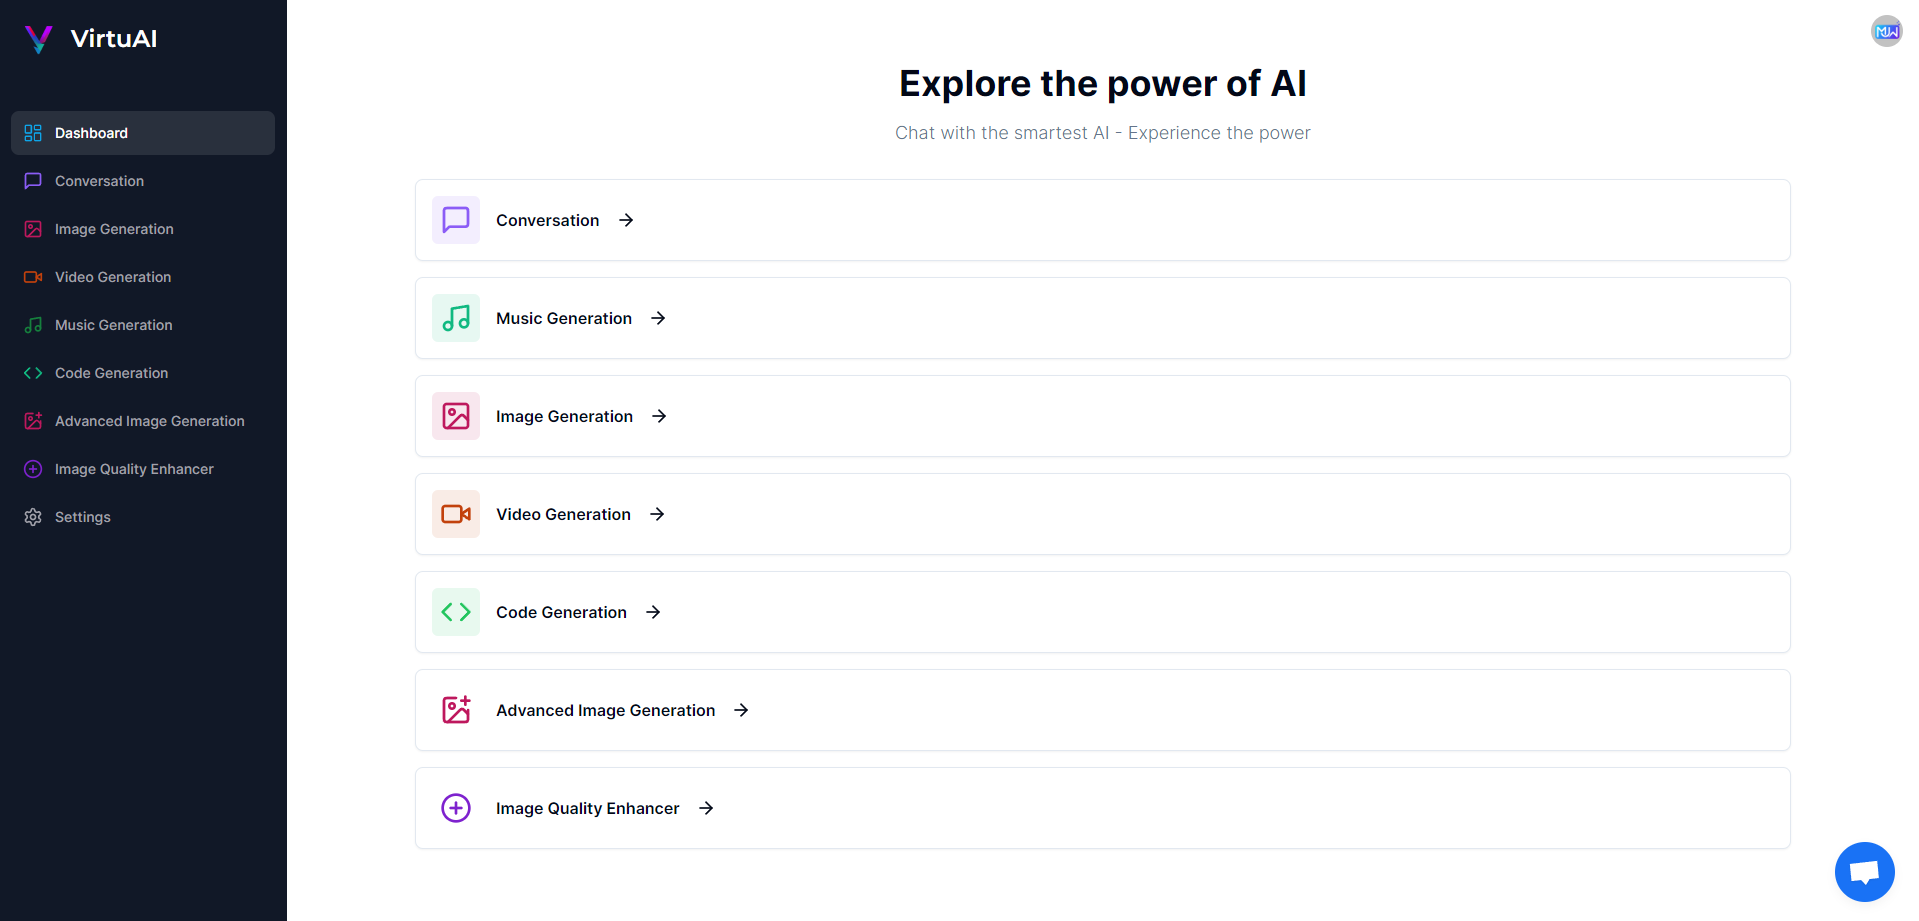
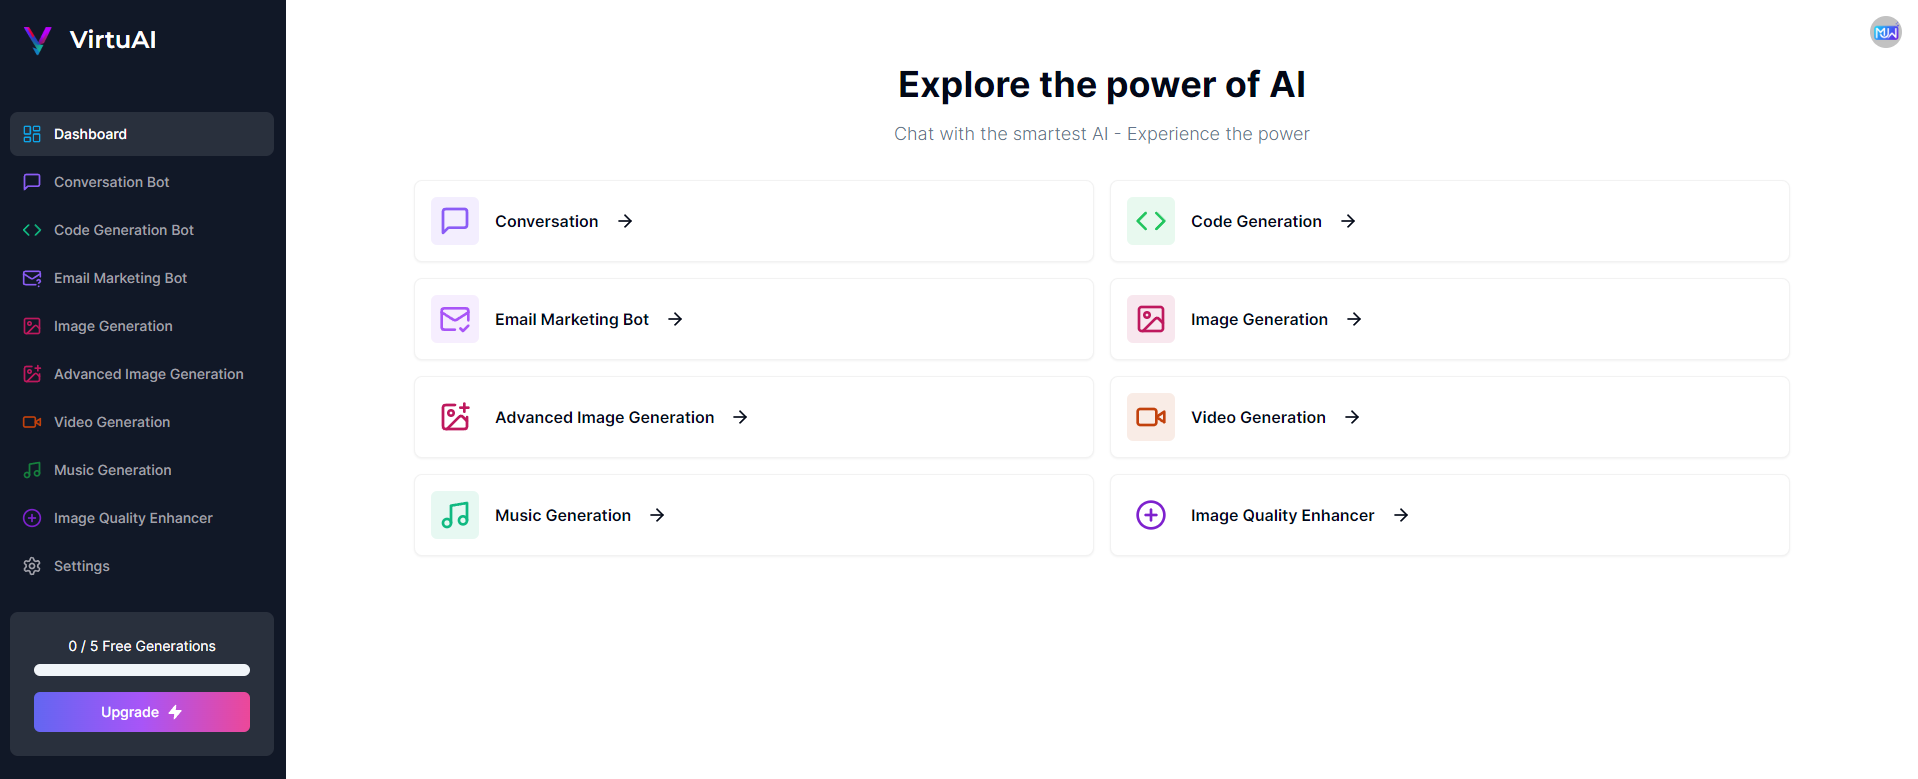
fixed navbar

diff --git a/components/landing-navbar.tsx b/components/landing-navbar.tsx
@@ -10,40 +10,16 @@ export const LandingNavbar = () => {
   const [isMenuOpen, setIsMenuOpen] = useState(false);
 
   return (
-    <nav className="p-4 bg-transparent flex items-center justify-between">
-      <Link href="/">
-        <div className="flex items-center cursor-pointer">
-          <div className="relative h-8 w-8 mr-4">
-            <Image fill alt="Logo" src="/virtuAiLogo.png" />
-          </div>
-          <h1 className="text-2xl font-bold text-white">VirtuAi</h1>
-        </div>
-      </Link>
-
-      <div className="md:hidden">
-        <button onClick={() => setIsMenuOpen((prev) => !prev)} className="text-white">
-          {/* Burger Icon */}
-          <div className="w-6 h-6 flex flex-col justify-between">
-            <div className="w-full h-0.5 bg-white"></div>
-            <div className="w-full h-0.5 bg-white"></div>
-            <div className="w-full h-0.5 bg-white"></div>
-          </div>
-        </button>
+    <nav className="flex items-center justify-between p-4">
+      <div className="flex items-center p-1">
+        <Image src="/virtuAiLogo.png" alt="Logo" width={40} height={40} />
+        <h1 className="text-2xl font-bold text-white">VirtuAi</h1>
       </div>
 
-      <div className={`fixed top-0 left-0 w-full h-full bg-gray-900 bg-opacity-75 z-50 transform transition-transform duration-300 ${isMenuOpen ? 'translate-x-0' : '-translate-x-full'} md:translate-x-0 md:static md:bg-transparent md:flex md:items-center md:justify-end`}>
-        <button onClick={() => setIsMenuOpen(false)} className="absolute top-4 right-4 text-white md:hidden">
-          {/* Close Icon */}
-          <div className="w-6 h-6 relative">
-            <div className="absolute inset-0 bg-white transform rotate-45"></div>
-            <div className="absolute inset-0 bg-white transform -rotate-45"></div>
-          </div>
-        </button>
-
-        <div className="flex items-center gap-x-2 mt-16 md:mt-0">
-        <Link href="/#about" passHref>
+      <div className="hidden md:flex items-center space-x-4">
+      <Link href="/#about" passHref>
                     <Button variant="ghost" className="text-white hover:text-black transition duration-300">
-                        About
+                    Preview
                     </Button>
                 </Link>
                 <Link href="/#price" passHref>
@@ -56,9 +32,40 @@ export const LandingNavbar = () => {
                         Testimonials
                     </Button>
                 </Link>
-             
-               
-          {/* ... rest of your links here */}
+                <Link href={isSignedIn ? '/dashboard' : '/sign-up'}>
+            <Button variant="premium" className="rounded-full transition duration-300">
+              Get Started
+            </Button>
+          </Link>
+        
+      </div>
+
+      <button className="md:hidden z-10" onClick={() => setIsMenuOpen(!isMenuOpen)}>
+        <div className="space-y-1">
+          <span className="block w-8 h-0.5 bg-gray-700"></span>
+          <span className="block w-8 h-0.5 bg-gray-700"></span>
+          <span className="block w-8 h-0.5 bg-gray-700"></span>
+        </div>
+      </button>
+
+      {isMenuOpen && (
+        <div className="absolute top-1 left-0 w-full md:hidden">
+        <div className="flex flex-col items-center justify-center p-4 bg-white bg-opacity-80">
+          <Link href="/#about" passHref>
+            <Button variant="ghost" className="text-grey hover:text-black transition duration-300 mb-2">
+              Preview
+            </Button>
+          </Link>
+          <Link href="/#price" passHref>
+            <Button variant="ghost" className="text-grey hover:text-black transition duration-300 mb-2">
+              Price
+            </Button>
+          </Link>
+          <Link href="/#testimonials" passHref>
+            <Button variant="ghost" className="text-grey hover:text-black transition duration-300 mb-2">
+              Testimonials
+            </Button>
+          </Link>
           <Link href={isSignedIn ? '/dashboard' : '/sign-up'}>
             <Button variant="premium" className="rounded-full transition duration-300">
               Get Started
@@ -66,6 +73,8 @@ export const LandingNavbar = () => {
           </Link>
         </div>
       </div>
+      )}
     </nav>
   );
+  
 };

diff --git a/components/landing-content.tsx b/components/landing-content.tsx
@@ -146,8 +146,8 @@ export const LandingContent = () => {
                         <Image 
                         src='/Dashboard.png'
                         alt='Product Preview'
-                        width={1363}
-                        height={866} 
+                        width={1700}
+                        height={950} 
                         quality={100}
                         className="rounded-md p-2 sm:p-8 md:p-8 shadow-2xl ring-1 ring-gray-900/10"
                         />

diff --git a/app/(dashboard)/(routes)/dashboard/page.tsx b/app/(dashboard)/(routes)/dashboard/page.tsx
@@ -102,7 +102,7 @@ return (
             {tools.map((tool, index) => (
                 index % 2 === 0 && (
                     // eslint-disable-next-line react/jsx-key
-                    <div className="flex space-x-4">
+                    <div className="flex flex-col md:flex-row space-y-4 md:space-y-0 md:space-x-4">
                         <Card
                             onClick={() => router.push(tool.href)}
                             key={tool.href}

diff --git a/components/sidebar.tsx b/components/sidebar.tsx
@@ -140,8 +140,7 @@ const Sidebar = ({
 
     return (
 
-        <div className="space-y-4 py-4 flex flex-col h-full
-            bg-[#111827] text-white">
+        <div className="space-y-4 py-4 flex flex-col h-screen overflow-y-auto bg-[#111827] text-white">
                 <div className="px-3 py-2 flex-1">
                 <Link href="/dashboard" className="flex items-center pl-3 mb-14">
                     <div className="relative w-8 h-8 mr-4">

diff --git a/app/api/superResolution/route.ts b/app/api/superResolution/route.ts
@@ -39,8 +39,7 @@ export async function POST(
         const isPro = await checkSubscription();
 
         if (!freeTrial && !isPro) {
-            return new NextResponse(null, { status: 403, statusText: "Free trial has expired." });
-
+            return new NextResponse("Free trial has expired.",  {status: 403})
         }
 
         const response = await deepai.callStandardApi('torch-srgan', {

diff --git a/app/(dashboard)/(routes)/emailMarketing/page.tsx b/app/(dashboard)/(routes)/emailMarketing/page.tsx
@@ -26,7 +26,7 @@ import toast from 'react-hot-toast';
 import TypewriterComponent from 'typewriter-effect';
 import Image from 'next/image';
 
-const EmailMarketing = () => {
+export const EmailMarketing = () => {
    
     const proModal = useProModal();
     const [messages, setMessages] = useState<ChatCompletionMessageParam[]>([]);
